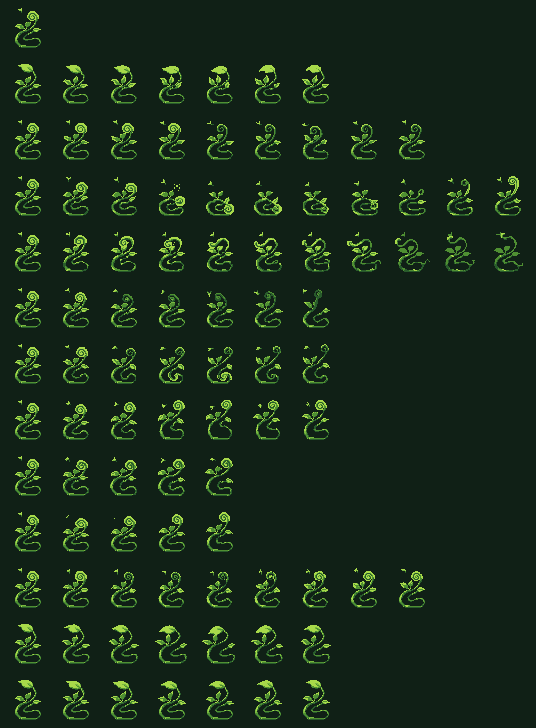
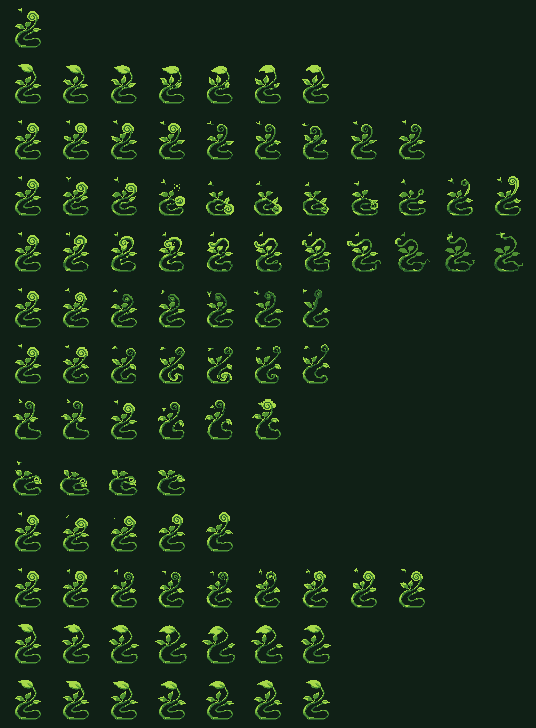
RK Langkah 1: utang FEEL - jatuh membungkuk, lompat berjongkok-meregang
- JATUH digenerate ulang (seed 1062): loop 4 frame tubuh MEMBUNGKUK
  rendah menerima beban - ujung terselip di depan bawah, daun tersapu
  angin; frame tegak pembuka dibuang supaya loop konsisten. Koreksi
  pemilik proyek (jatuh kurang membungkuk) terjawab langsung.
- LOMPAT: generasi baru (seed 1061) squash-nya tidak keluar per-frame,
  diselamatkan lewat kurasi susun-ulang frame satu generasi: strip 6f =
  jongkok kompak ditahan 2 frame -> master -> meregang -> puncak
  menyala (membeku di sana selama masih naik). Lompatan kini punya
  antisipasi dan ledakan.
- CRAWL v3 kanan+kiri (seed 1063/1064) DITOLAK kurasi: dua-duanya lebih
  menggulung tegak daripada versi lama yang sudah lulus playtest -
  crawl lama dipertahankan, utang gulung kecil tetap tercatat.
- Boncengan lunas: JejakView pindah dari warna era Menjalar ke hijau
  TENDRIL EDV3 pasal 3.1 (6FBF3E/A8E85C) - sulur yang ditumbuhkan
  avatar kini sewarna jaringan benih, satu organisme satu bahasa.

Tidak ada perubahan kode AvatarView (jumlah frame dibaca dari lebar
strip). Verifikasi headless bersih. DOD dinilai mata pemilik in-game:
lompat = usaha, mendarat = menerima beban.

diff --git a/CLAUDE.md b/CLAUDE.md
@@ -190,17 +190,27 @@ Langkah 0 (kebersihan dokumen) SELESAI 14 Agustus: kanon aktif 11 → 7,
 empat dokumen bercap HISTORIS, bagian ini dikompres (sejarah pass demi
 pass Room 01 hidup di dokumen historis + riwayat git).
 
-**SEKARANG → Langkah 1: lunasi utang FEEL** (1-2 sesi, GDD §42):
+**Langkah 1 (utang FEEL) DIKERJAKAN 14 Agustus — menunggu mata pemilik:**
 
-- LOMPAT: belum terasa effort/impact — butuh pose lebih ekstrem.
-- JATUH: KURANG membungkuk, belum terkesan menerima impact.
-- CRAWL: masih sedikit menggulung (lulus 12 Agu dengan utang).
-- Boleh dibonceng: palet avatar & jejak pindah ke CDD §7 (file animasi
-  toh sedang disentuh). "Jangan reroll tanpa diminta" — RK Langkah 1
-  ADALAH permintaannya. Idle/detach/attach & bahasa-OLR merambat TIDAK
-  disentuh di langkah ini.
-- DOD: lompat terbaca sebagai usaha, mendarat terbaca menerima beban.
-  Uji dengan mata, bukan asersi.
+- JATUH v2 (seed 1062) MENANG telak: 4 frame loop tubuh MEMBUNGKUK
+  rendah, ujung terselip di depan bawah, daun tersapu — frame tegak
+  pembuka dibuang supaya loop konsisten.
+- LOMPAT: generasi v2 (seed 1061) squash-nya tidak keluar per-frame →
+  diselamatkan lewat KURASI SUSUN-ULANG: strip 6f = jongkok kompak
+  (ditahan 2f) → master → meregang → puncak menyala (beku selama naik).
+  Teknik baru yang terbukti: frame satu generasi boleh disusun ulang
+  jadi urutan aksi — identitas tetap konsisten.
+- CRAWL v3 kanan+kiri (seed 1063/1064): DITOLAK kurasi — dua-duanya
+  justru lebih menggulung tegak dari versi lama yang sudah lulus.
+  Crawl lama DIPERTAHANKAN; utang gulung kecil tetap tercatat. Pelajaran:
+  larangan "never coil upright" di teks aksi TIDAK dipatuhi model —
+  jangan reroll crawl lagi tanpa teknik baru (mis. pin frame rendah).
+- Boncengan lunas: JejakView pindah ke hijau TENDRIL EDV3 §3.1
+  (6FBF3E/A8E85C, sama dengan jaringan benih — "makhluk & pertumbuhan-
+  nya"); warna Menjalar (C_BRANCH/C_LEAF) tidak dipakai lagi.
+- Idle/detach/attach & bahasa-OLR merambat sengaja TIDAK disentuh.
+- DOD Langkah 1 dinilai MATA PEMILIK in-game: lompat = usaha, mendarat
+  = menerima beban. Lolos → RK Langkah 2 (sensor jadi nyata).
 
 Sesudahnya sesuai RK: [2] sensor jadi nyata (tiga state SRD §13, warna
 kuning CDD §7, konsekuensi termurah, TANPA musuh) → [3] playtest tiga
